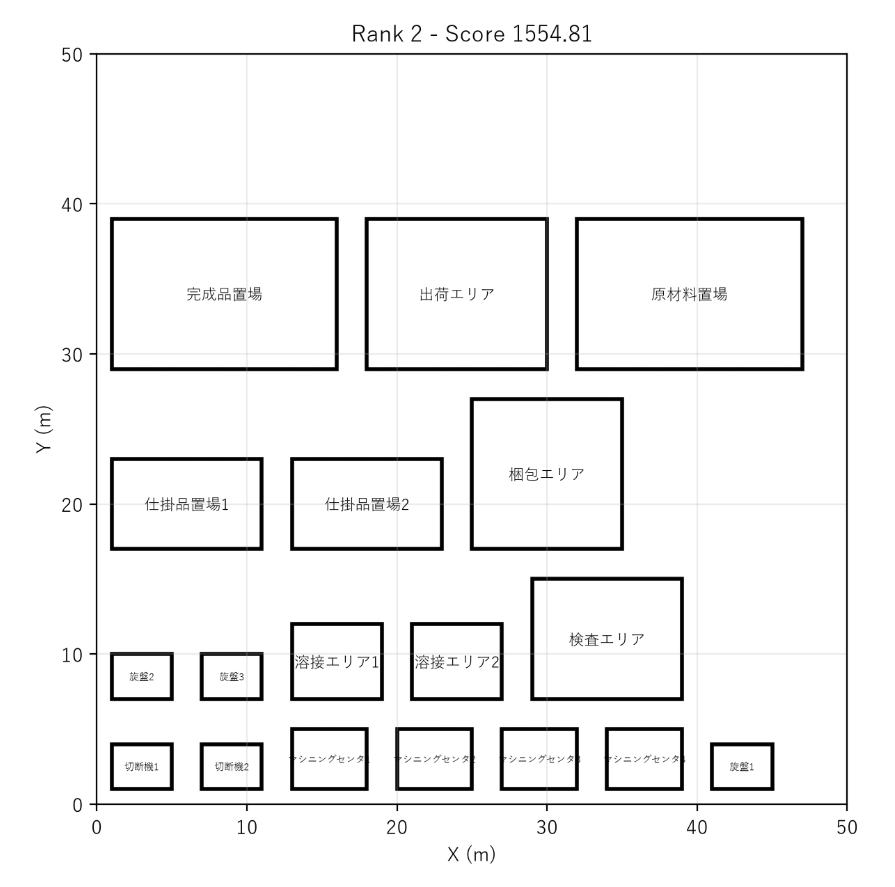
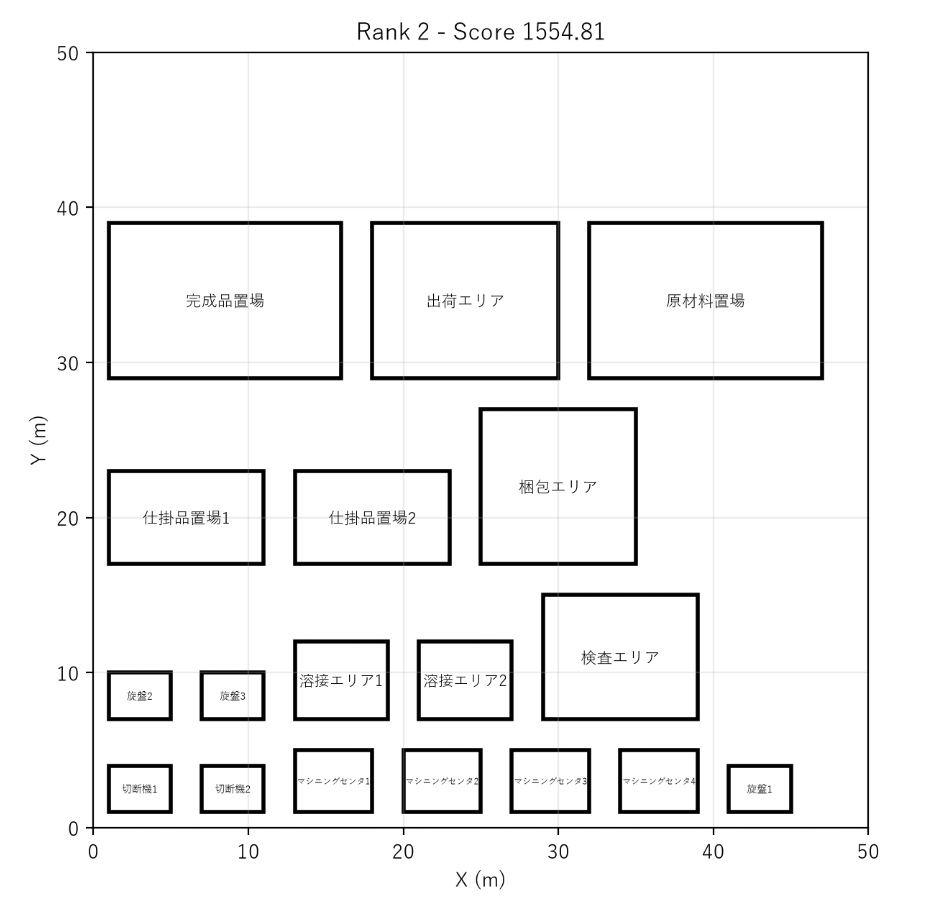
配置図のラベルが四角からはみ出す不具合を修正し、スクショを撮り直した
- app.py: 設備名の文字サイズを、四角の幅と名前の長さの両方から決める
  ようにした。min() で押さえてあるので、もとより大きくはならない。
  clip_on=True も付けた。
  実際に描画して測り、はみ出し 4種 → 0種 を確認（pytest 37 passed）。
- docs/: 4枚を撮り直した。前の app_input.png はブラウザの自動翻訳で
  「工場の奥行き」が「工場の心構え」に化けていた。翻訳を切って再撮影。

diff --git a/app.py b/app.py
@@ -95,13 +95,22 @@ def draw_layout(
         center_x = placed_area.x_m + area.width_m / 2
         center_y = placed_area.y_m + area.height_m / 2
 
+        # 名前が四角に収まるように、文字の大きさを決める。
+        # もとの決め方（幅だけを見る）に加えて、名前の長さも見る。
+        # 長い名前のときだけ小さくなり、大きくなることはない。
+        base_size = 5.0 if area.width_m <= 5 else 8.0
+        points_per_meter = 10.0
+        usable_points = area.width_m * points_per_meter * 0.75
+        font_size = min(base_size, usable_points / len(area.name))
+
         ax.text(
             center_x,
             center_y,
             area.name,
             ha="center",
             va="center",
-            fontsize=5 if area.width_m <= 5 else 8,
+            fontsize=max(3.5, font_size),
+            clip_on=True,
         )
 
     return fig
